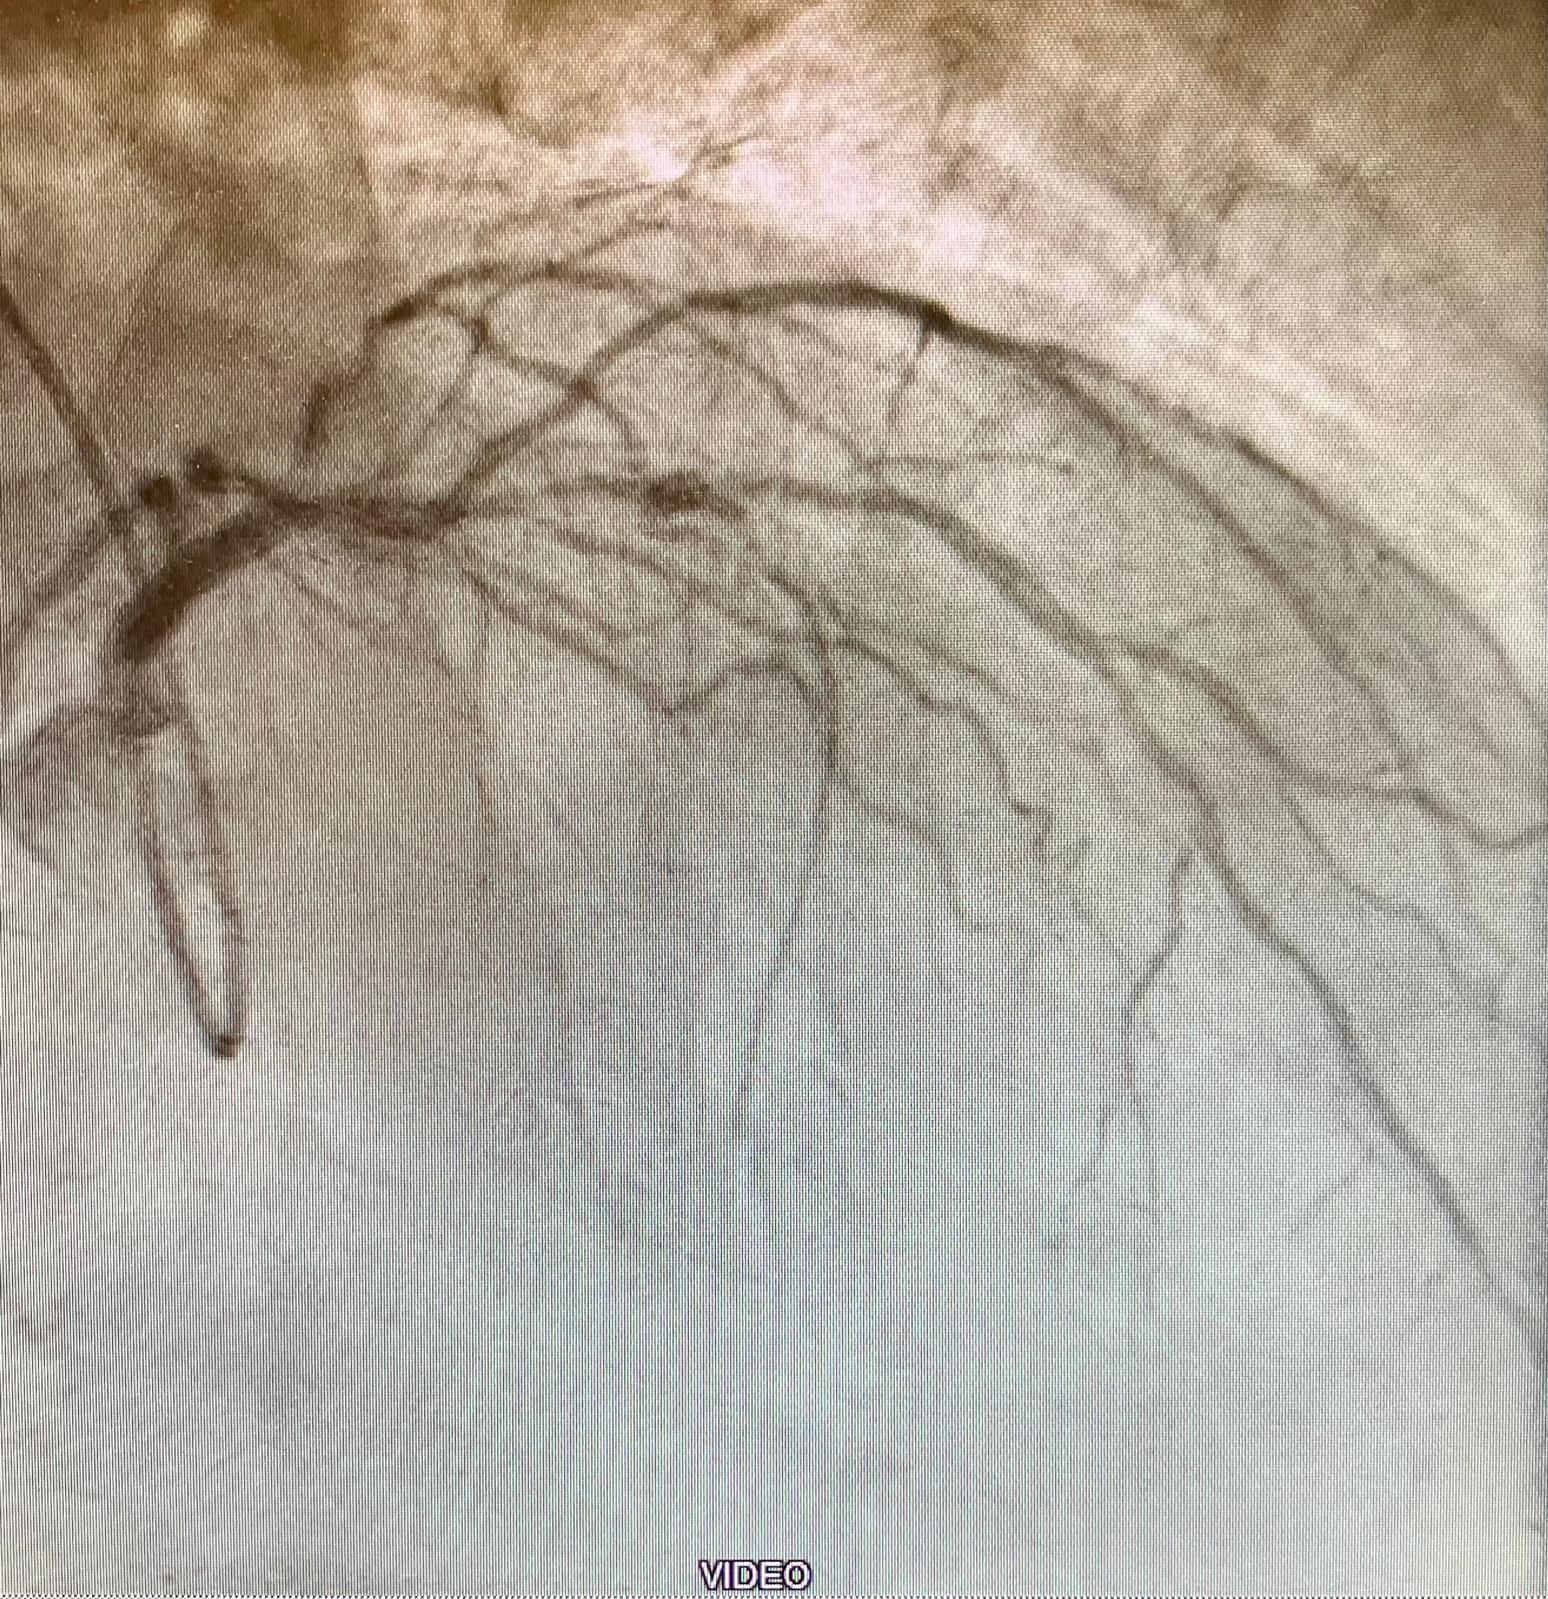
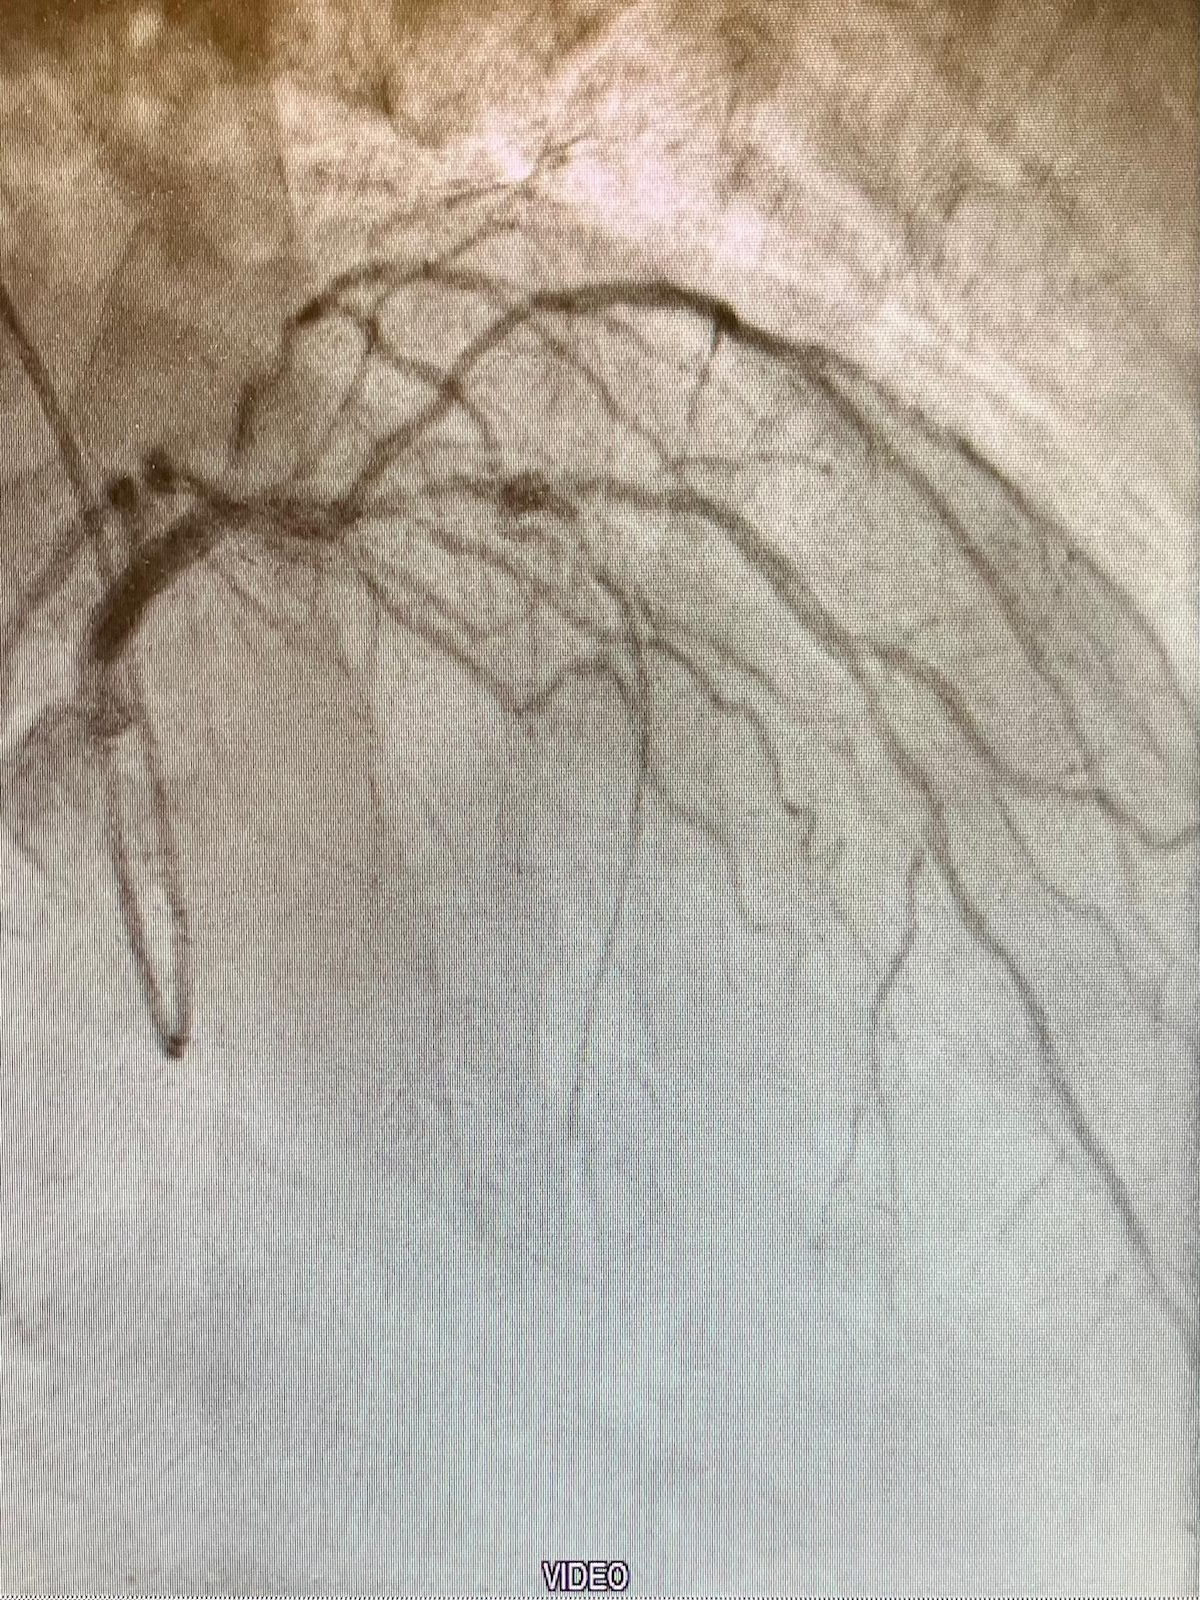
Split image for coronary and aortic

diff --git a/src/components/Specializzazioni.jsx b/src/components/Specializzazioni.jsx
@@ -8,6 +8,8 @@ import fotoTavi from '../assets/foto-emodinamica.jpg'
 import fotoAortica2 from '../assets/foto-valvola-aortica.jpg'
 import fotoAorta from '../assets/foto-aneurisma-aorta.jpg'
 import fotoAortaPost from '../assets/foto-sostituzione-aorta.jpg'
+import fotoAortaFinal from '../assets/merged-aorta.jpg'
+import fotoBypassFinal from '../assets/merged-bypass.jpg'
 import './Specializzazioni.css'
 
 const specializzazioni = [
@@ -77,7 +79,7 @@ La TAVI viene eseguita in anestesia locale e sedazione e nella maggior parte dei
     nome: 'Chirurgia aortica',
     desc: "Trattamento degli aneurismi dell'aorta toracica e delle dissezioni aortiche.",
     label: 'Aneurismi e dissezioni',
-    foto: [fotoAorta, fotoAortaPost],
+    foto: fotoAortaFinal,//[fotoAorta, fotoAortaPost],
     fotoLabel: ['Pre-operatorio: aneurisma aorta ascendente', 'Post-operatorio: sostituzione con protesi vascolare'],
     testo: `Per aneurisma aortico si intende una dilatazione dell'aorta (il vaso arterioso che dal cuore porta il sangue in tutto il corpo). Sono di interesse del cardiochirurgo tutti gli aneurismi dell'aorta ascendente (sia del bulbo aortico sia del tratto tubulare sovracoronarico) e dell'arco aortico fino a livello dell'arteria succlavia.
 
@@ -108,7 +110,7 @@ In entrambi i casi potrà essere eseguita anche la chiusura/esclusione dell'auri
     nome: 'Malattia coronarica',
     desc: 'Bypass aortocoronarico per il trattamento delle stenosi coronariche.',
     label: 'Bypass aortocoronarico',
-    foto: [fotoBypass, fotoBypassBW],
+    foto: fotoBypassFinal,//[fotoBypass, fotoBypassBW],
     testo: `In caso di stenosi (restringimenti) delle coronarie, malattia che può determinare l'angina (dolore toracico) o che può portare ad un infarto, se non fosse possibile intervenire con una dilatazione percutanea dei restringimenti (angioplastica) e contemporaneo posizionamento di uno stent, si dovrà eseguire un intervento di Bypass aortocoronarico.
 
 Questo intervento condotto in anestesia generale, in sternotomia e con l'utilizzo della circolazione extracorporea, prevede la creazione di vie alternative (by-pass) per portare il sangue nelle coronarie a valle dei restringimenti. In questi casi vengono utilizzate quali vie alternative le arterie mammarie interne (vasi che si trovano all'interno del torace), le arterie radiali (prelevate dagli arti superiori) e le vene safene (prelevate dalle gambe) a seconda dei casi.
